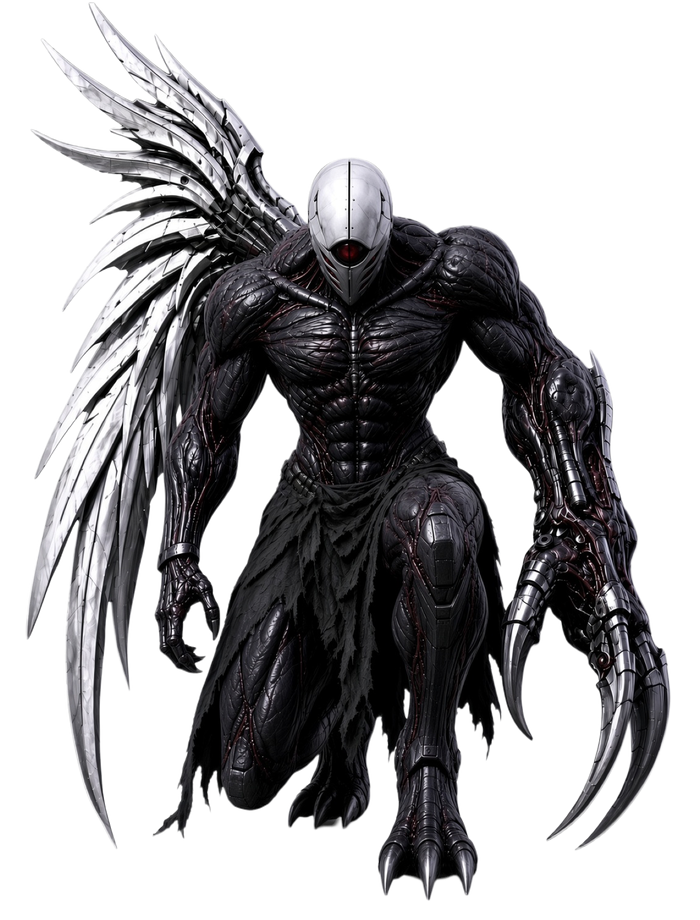
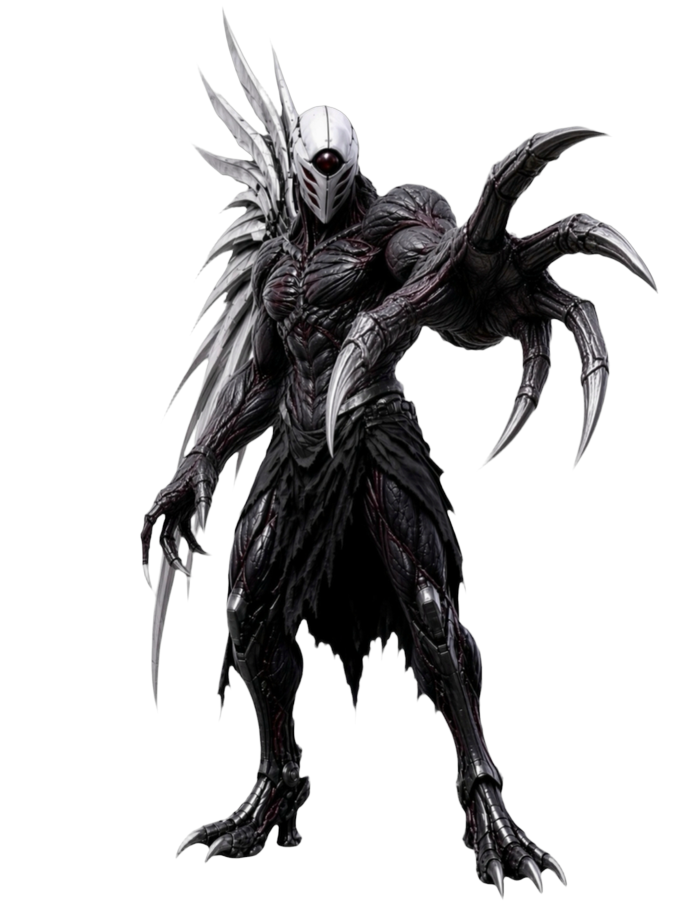
Restore image-based ARC CLAW SLASH, fix SOUTH ATTACK asset, name boss GABRIEL
- ARC CLAW SLASH: the supplied claw image is the attack body again (was
  swapped for a Canvas-VFX-only crescent last batch); position still
  sweeps a quadratic-Bezier arc with continuous tangent-aligned rotation
  and 2-4 frame afterimages, but now drawing the real claw art instead of
  a procedural shape. The crescent is kept, demoted to a faint auxiliary
  trail mark drawn underneath the claw image. Motion/hit mechanics
  (total rotation ~90-160deg, CW/CCW variants, damage+knockback along the
  live tangent, DASH invulnerability, single-hit guard) are unchanged.
- SOUTH ATTACK: replaced attack_south_release.png with a new dedicated
  photograph (previously it shared its source image with cinematic_pose.png,
  which is why the two looked like "the same picture" — not an asset
  mis-reference in code, just a content choice from last batch). Built
  via body-landmark scaling onto the shared boss canvas; SOUTH_ATTACK_SCALE
  is its own independent constant (not shared with CINEMATIC_SCALE), tuned
  via screenshot comparison so SOUTH ATTACK reads the same size as SOUTH
  IDLE/WALK instead of oversized. cinematic_pose.png is untouched.
- Boss is now named GABRIEL (boss.name field); the WARNING banner reads
  "GABRIEL DETECTED". HP gauge stays hidden.

diff --git a/game.js b/game.js
@@ -181,14 +181,31 @@
   const BARREL_HITBOX_RADIUS = 12; // scaled down to match the smaller draw size
   const BARREL_EXPLOSION_RADIUS = 300; // area-effect range, not tied to the sprite size (3x the previous 100)
 
-  // ---------- ARC CLAW SLASH (boss ranged attack, Canvas VFX — no image) ----------
-  // Deliberately no image asset at all: a thin silver-to-white crescent
-  // slash-mark, drawn as a filled canvas path (two bowed quadratic curves
-  // meeting at sharp points) rather than any sprite — a hard metal claw
-  // cutting through the air, never a glowing magic beam. See
-  // drawArcClawPose() for the actual shape.
-  const ARC_CLAW_DRAW_LENGTH = 70; // on-screen tip-to-tail length, px — ~60% of SPRITE_DRAW_H(116), within the 45-65% band
-  const ARC_CLAW_CRESCENT_BOW = 15; // px, how far the crescent bows away from its own straight long axis
+  // ---------- ARC CLAW SLASH (boss melee-range attack) ----------
+  // The claw IMAGE is the attack's actual body (real supplied art, no
+  // generated/inpainted content) — it travels along a curved Bezier path
+  // with its own rotation continuously re-aligned to the live tangent
+  // direction (see updateArcClawSlashes()/ARC_CLAW_BASE_TIP_ANGLE below).
+  // The thin silver-to-white crescent shape from the earlier Canvas-VFX-only
+  // version is kept too, but only as a faint auxiliary slash-trail mark
+  // behind the claw image — see drawArcClawImage() (main body) vs
+  // drawArcClawCrescentTrail() (auxiliary) in drawArcClawSlash().
+  const arcClawImg = new Image();
+  let arcClawImgReady = false;
+  arcClawImg.onload = () => { arcClawImgReady = true; };
+  arcClawImg.src = 'assets/boss/attacks/arc_claw_slash.png';
+  // Tip<->base axis of the cropped claw art, measured via PCA of its own
+  // opaque-pixel mask (long axis of the elongated claw+speed-line
+  // silhouette) — see assets/boss/source/MANIFEST.md batch 7 notes. Used so
+  // the sprite's own "pointing" direction lines up with the live tangent
+  // angle rather than just spinning in place.
+  const ARC_CLAW_BASE_TIP_ANGLE = 2.3594412320307216; // ~135.19deg, unmirrored
+  const ARC_CLAW_BASE_TIP_ANGLE_FLIPPED = Math.PI - ARC_CLAW_BASE_TIP_ANGLE; // ~44.81deg, mirrored
+  const ARC_CLAW_TIP_LOCAL = { x: 3, y: 1251 }; // tip pixel, cropped-image space
+  const ARC_CLAW_IMG_DIAG = 1742.6; // measured tip<->base pixel distance in the cropped source art
+  const ARC_CLAW_DRAW_LENGTH = 72; // on-screen tip-to-base length, px — ~62% of SPRITE_DRAW_H(116), within the 45-65% band
+  const ARC_CLAW_DRAW_SCALE = ARC_CLAW_DRAW_LENGTH / ARC_CLAW_IMG_DIAG;
+  const ARC_CLAW_CRESCENT_BOW = 15; // px, how far the auxiliary crescent trail bows away from its own straight axis
   const ARC_CLAW_LIFETIME_MS = 650; // start -> full wind-through -> finish
   const ARC_CLAW_TRAIL_LEN = 4; // afterimage frames kept
   // Start/end angular deviation from the straight boss->player line, each
@@ -489,17 +506,20 @@
   const WALK_FRAME_PERIOD_MS = 260; // south 2-frame alternation period
   const NORTH_BOUNCE_AMPLITUDE = 4; // px, decorative only (no NORTH walk art)
   const SOUTH_WALK_SCALE = 1.10; // visual-only — SOUTH WALK reads a touch small next to the other directions
-  const PRE_ATTACK_SCALE = 1.13; // visual-only — the reused older attack art reads a touch small for its telegraph
+  const PRE_ATTACK_SCALE = 1.10; // visual-only — matches SOUTH_ATTACK_SCALE so the telegraph reads the same size as the real release
   const NORTH_IDLE_SCALE = 1.10; // visual-only — NORTH IDLE reads a touch small next to the other directions
   const NORTH_ATTACK_SCALE = 1.10; // visual-only — matched to NORTH IDLE so the two read as the same size
-  // The new SOUTH ATTACK render's own body-height (measured head-top to
-  // feet-bottom, not raw canvas bbox — its wingspan is wide enough that
-  // fitting it on the shared 700x920 canvas without any clipping requires
-  // a smaller base scale than the ~873px convention every other frame
-  // uses) is boosted back up at render time, bottom-anchored exactly like
-  // the scales above, so it reads the same body size as every other
-  // direction instead of looking smaller mid-fight.
-  const SOUTH_ATTACK_SCALE = 1.1766;
+  // SOUTH ATTACK's own render-time scale — deliberately independent from
+  // CINEMATIC_SCALE (a completely different image/role; never share this
+  // constant with the cinematic pose). The source render's own body-height
+  // (measured head-top to feet-bottom, not raw canvas bbox — its wingspan/
+  // raised arm are wide enough that fitting it on the shared 700x920 canvas
+  // without any clipping already lands close to the other directions' own
+  // effective size) only needs a small boost here, tuned via Playwright
+  // screenshot comparison against SOUTH IDLE/WALK/CINEMATIC so SOUTH ATTACK
+  // reads as the SAME size as SOUTH IDLE/WALK — not larger — per the
+  // "fit the smaller side, don't enlarge everything else" instruction.
+  const SOUTH_ATTACK_SCALE = 1.10;
   // SOUTH/EAST/WEST attacks telegraph with a PRE_ATTACK pose before the
   // real ATTACK (blade release) frame; NORTH skips straight to ATTACK
   // (no dedicated PRE_ATTACK art for it) — see updateBoss()'s CHASE
@@ -587,6 +607,7 @@
   const OPPOSITE_COMPASS = { north: 'south', south: 'north', east: 'west', west: 'east' };
 
   const boss = {
+    name: 'GABRIEL', // official display name — internal field so every player-visible label (WARNING banner, debug/aria text) reads from one source
     x: 0, y: 0,
     spawned: false,
     state: 'inactive', // inactive | chase | preattack | attack | defense | guardbreak | recover | dead
@@ -1338,14 +1359,19 @@
       const pos = quadBezierPoint(s.p0, s.p1, s.p2, t);
       const tangentAngle = quadBezierTangentAngle(s.p0, s.p1, s.p2, t);
 
-      s.trail.push({ x: s.x, y: s.y, angle: s.angle });
+      // Each stored sample keeps its OWN position/rotation from when it was
+      // the live frame — angle for the claw image's draw rotation, and the
+      // raw tangentAngle too (the auxiliary crescent trail aligns to the
+      // pure travel direction, not the image's own tip-offset rotation).
+      s.trail.push({ x: s.x, y: s.y, angle: s.angle, tangentAngle: s.tangentAngle });
       if (s.trail.length > ARC_CLAW_TRAIL_LEN) s.trail.shift();
 
       s.x = pos.x; s.y = pos.y; s.tangentAngle = tangentAngle;
-      // The crescent is drawn procedurally (see drawArcClawPose()), so its
-      // rotation is simply the live travel direction — no image-orientation
-      // correction is needed here.
-      s.angle = tangentAngle;
+      // Re-align the claw image's own tip<->base axis to the live tangent
+      // direction, so it visibly points where it's travelling rather than
+      // just spinning around its own center.
+      const baseTip = s.mirrored ? ARC_CLAW_BASE_TIP_ANGLE_FLIPPED : ARC_CLAW_BASE_TIP_ANGLE;
+      s.angle = tangentAngle - baseTip;
 
       if (!s.hasHit && !isPlayerInvulnerable()) {
         // Oriented rectangle aligned to the live travel direction (never a
@@ -1366,20 +1392,35 @@
     }
   }
 
-  // A thin crescent slash-mark: two bowed quadratic curves meeting at sharp
-  // points at the tip (forward, local +X) and tail (backward, local -X) —
-  // bowed to one side (mirrored flips which side, matching the CW/CCW
-  // swing direction) so it reads as a real curved blade-cut, not a
-  // symmetric lens/eye shape. Silver-to-white gradient along its length
-  // (bright leading tip, dimmer trailing tail) — no glow/shadowBlur, no
-  // flashy color, just a hard metallic edge.
-  function drawArcClawPose(x, y, angle, mirrored, alpha) {
+  // The attack's actual body: the supplied claw image, rotated so its own
+  // tip<->base axis lines up with `angle` (already tangent-corrected by the
+  // caller — see ARC_CLAW_BASE_TIP_ANGLE in updateArcClawSlashes()).
+  function drawArcClawImage(x, y, angle, mirrored, alpha) {
+    if (!arcClawImgReady) return;
+    const drawW = arcClawImg.naturalWidth * ARC_CLAW_DRAW_SCALE;
+    const drawH = arcClawImg.naturalHeight * ARC_CLAW_DRAW_SCALE;
+    ctx.save();
+    ctx.globalAlpha = alpha;
+    ctx.translate(x, y);
+    ctx.rotate(angle);
+    if (mirrored) ctx.scale(-1, 1);
+    ctx.drawImage(arcClawImg, -ARC_CLAW_TIP_LOCAL.x * ARC_CLAW_DRAW_SCALE, -ARC_CLAW_TIP_LOCAL.y * ARC_CLAW_DRAW_SCALE, drawW, drawH);
+    ctx.restore();
+  }
+
+  // Auxiliary slash-trail mark only (NOT the attack body) — a thin bowed
+  // crescent, aligned to the pure travel direction (`tangentAngle`, not the
+  // image's own rotation), left fading behind the real claw image. Two
+  // bowed quadratic curves meeting at sharp points at the tip (forward,
+  // local +X) and tail (backward, local -X); mirrored flips which side it
+  // bows toward, matching the CW/CCW swing direction.
+  function drawArcClawCrescentTrail(x, y, tangentAngle, mirrored, alpha) {
     const half = ARC_CLAW_DRAW_LENGTH / 2;
     const bow = mirrored ? -ARC_CLAW_CRESCENT_BOW : ARC_CLAW_CRESCENT_BOW;
     ctx.save();
     ctx.globalAlpha = alpha;
     ctx.translate(x, y);
-    ctx.rotate(angle);
+    ctx.rotate(tangentAngle);
     const grad = ctx.createLinearGradient(-half, 0, half, 0);
     grad.addColorStop(0, 'rgba(150,155,165,0.15)');
     grad.addColorStop(0.55, 'rgba(215,220,228,0.75)');
@@ -1413,13 +1454,17 @@
     }
     // Afterimages: each keeps ITS OWN position/rotation from when it was
     // the live frame, so the stack of afterimages itself traces the arc —
-    // not the current pose copy-pasted backward.
+    // not the current pose copy-pasted backward. The faint crescent draws
+    // first (auxiliary trail mark), the claw image draws on top of it
+    // (the real attack body).
     const n = s.trail.length;
     for (let i = 0; i < n; i++) {
       const sample = s.trail[i];
-      drawArcClawPose(sample.x, sample.y, sample.angle, s.mirrored, 0.10 + 0.16 * (i / Math.max(1, n)));
+      const a = i / Math.max(1, n);
+      drawArcClawCrescentTrail(sample.x, sample.y, sample.tangentAngle, s.mirrored, 0.08 + 0.10 * a);
+      drawArcClawImage(sample.x, sample.y, sample.angle, s.mirrored, 0.18 + 0.24 * a);
     }
-    drawArcClawPose(s.x, s.y, s.angle, s.mirrored, 1);
+    drawArcClawImage(s.x, s.y, s.angle, s.mirrored, 1);
   }
 
   // ---------- Game mode / PAUSE ----------
@@ -3050,7 +3095,7 @@
       ctx.font = 'bold 20px sans-serif';
       ctx.fillText('WARNING', W / 2, barY + 44);
       ctx.font = 'bold 14px sans-serif';
-      ctx.fillText('BOSS DETECTED', W / 2, barY + 64);
+      ctx.fillText(`${boss.name} DETECTED`, W / 2, barY + 64);
       ctx.restore();
     }
   }

diff --git a/assets/boss/source/MANIFEST.md b/assets/boss/source/MANIFEST.md
@@ -1,14 +1,16 @@
-# Boss character asset manifest — all 21 source images (batch 1 + batch 2 + batch 3 + batch 4 + batch 5 + batch 6 + batch 7 + batch 8)
+# Boss character asset manifest — all 22 source images (batch 1 + batch 2 + batch 3 + batch 4 + batch 5 + batch 6 + batch 7 + batch 8 + batch 9)
 
-All 20 files below are byte-identical copies of the originally attached
+All 22 files below are byte-identical copies of the originally attached
 images (verified by md5) — no crop/resize/flip/regeneration applied to
 these `source/` copies. The processed, game-ready frames built from them
 live in `assets/boss/*.png` (see `assets/boss/sprite_build_meta.json` for
 batches 1-2's exact per-frame alignment measurements,
 `assets/boss/defense_dirs_build_meta.json` for batch 3's,
 `assets/boss/attack_ns_build_meta.json` for batch 5's,
-`assets/boss/attack_release_build_meta.json` for batch 6's, and the
-ARC CLAW SLASH notes below for batch 7's).
+`assets/boss/attack_release_build_meta.json` for batch 6's,
+`assets/boss/attack_south_v2_build_meta.json` for batch 8's (now
+superseded — see batch 9), `assets/boss/attack_south_release_build_meta.json`
+for batch 9's, and the ARC CLAW SLASH notes below for batch 7's).
 
 ## Batch 1 (5 images)
 
@@ -185,6 +187,13 @@ Batch 7 notes:
   ~135.19deg at zero canvas rotation, ~44.81deg after a horizontal mirror
   (used for the slash's counter-clockwise variant, since only one hand
   orientation exists in the source art).
+- Status: ACTIVE (this image IS the ARC CLAW SLASH attack body). Batch 8
+  temporarily switched the attack's rendering to a procedural Canvas-VFX-only
+  crescent and stopped referencing this file; batch 9 restored the
+  image-based rendering (per explicit user instruction that the claw image
+  itself must be the attack's real body, with the crescent kept only as an
+  auxiliary trail effect) using this exact same already-cropped file and the
+  PCA orientation constants above, unchanged. See batch 9 notes below.
 
 ## Batch 8 (1 image, reused for two roles)
 
@@ -198,21 +207,28 @@ Batch 8 notes:
   CINEMATIC POSE. Both game-ready outputs below are built from the same
   byte-identical source (verified by md5); the source copy is kept once, in
   `attack_south_v2_source.png`, rather than duplicated under two filenames.
-- **SOUTH ATTACK v2** → `assets/boss/attack_south_release.png` (replaces the
-  batch-6 SOUTH release art; the old batch-6 SOUTH release file is no longer
-  used in-game for either ATTACK or PRE_ATTACK — see below). Built onto the
+- **SOUTH ATTACK v2** → `assets/boss/attack_south_release.png` (replaced the
+  batch-6 SOUTH release art at the time). Built onto the
   shared 700x920 boss canvas, anchored at (350,900), scale 0.55, paste
   offset (25,2) — measured from body landmarks (head-top y=284, feet-bottom
   y=1633, center_x=592 on the 1176x1636 source), not raw bbox height, since
   the fully-spread wingtips inflate the raw bbox well past the actual body
   extent. Fitting the complete image with zero clipping at this scale
   produces a body height on canvas of ~742px, a bit under the shared 873px
-  convention; `SOUTH_ATTACK_SCALE = 1.1766` in `game.js` applies the same
+  convention; `SOUTH_ATTACK_SCALE = 1.1766` in `game.js` applied the same
   bottom-anchored render-time multiplier pattern already used by
   `SOUTH_WALK_SCALE`/`PRE_ATTACK_SCALE`/`NORTH_IDLE_SCALE` to restore the
   on-screen body size to match every other direction, with no jump when
   entering/leaving ATTACK. Full measurements in
   `assets/boss/attack_south_v2_build_meta.json`.
+  **Status: SUPERSEDED.** This same photograph is also what
+  `cinematic_pose.png` uses (see below), so SOUTH ATTACK and the CINEMATIC
+  POSE ended up visually reading as "the same picture" — the user flagged
+  this as SOUTH ATTACK appearing to show the CINEMATIC image. Batch 9
+  replaced `attack_south_release.png` with a genuinely different supplied
+  photograph dedicated to SOUTH ATTACK only; this batch-8 build is left on
+  disk (build meta + this note) purely as history, not deleted, per this
+  project's asset-retirement convention. See batch 9 below.
 - SOUTH's PRE_ATTACK phase was removed entirely per this batch's spec (SOUTH
   is now the only direction that still telegraphs, and it does so by
   reusing this same new release-moment image at its own scale/timing rather
@@ -232,14 +248,66 @@ Batch 8 notes:
   scale is used uniformly for every cinematic event (first appearance,
   30/60/90% HP thresholds, and death) — there was never any per-event
   scale variation in the code to begin with.
-- **Retired (image no longer used in-game): `assets/boss/attacks/
-  arc_claw_slash.png`** (batch 7) and its source copy. ARC CLAW SLASH's
-  rendering was reworked from an image sprite to a procedural Canvas VFX
-  crescent (two mirrored quadratic Bézier curves with a silver-to-white
+- **Retired at the time (later reinstated — see batch 9): `assets/boss/
+  attacks/arc_claw_slash.png`** (batch 7) and its source copy. ARC CLAW
+  SLASH's rendering was reworked from an image sprite to a procedural Canvas
+  VFX crescent (two mirrored quadratic Bézier curves with a silver-to-white
   gradient fill) per this batch's explicit "no new image generation — use
-  Canvas VFX" instruction. The files are left on disk (not deleted) per
-  this project's asset-retirement convention; only `game.js`'s rendering
-  code stopped referencing them.
+  Canvas VFX" instruction. The files were left on disk (not deleted) per
+  this project's asset-retirement convention, which is exactly why batch 9
+  could bring them straight back into active use with no reprocessing.
+
+## Batch 9 (1 image)
+
+| # | Role | Saved filename | Source dims | md5 |
+|---|------|-----------------|-------------|-----|
+| 22 | SOUTH ATTACK v3 (final) | `attack_south_release_source.png` | 1377x2378 RGBA | 7a8fee2727bbc6a0155cba2b055ccfca |
+
+Batch 9 notes:
+- Two images were attached this batch: the 1st (md5
+  `3d0102334214be0b98b7f830e9903f92`) is byte-identical to the EXISTING
+  batch-7 `arc_claw_slash_source.png` — i.e. the same claw art already on
+  disk, re-supplied to confirm/re-authorize its use as the ARC CLAW SLASH
+  attack body (see batch 7's "Status: ACTIVE" note above; no new file was
+  saved for it, no reprocessing needed). The 2nd (this row) is a genuinely
+  new photograph, used exclusively for SOUTH ATTACK.
+- **Root cause of the "SOUTH ATTACK shows the CINEMATIC POSE image" report:**
+  not a code-level asset mix-up — `attack_south_release.png` and
+  `cinematic_pose.png` were always two separate files loaded through two
+  separate `Image` objects/keys (`BOSS_FRAME_FILES.attack_south_release` vs
+  `cinematicPoseImg.src`), never cross-referenced anywhere in `game.js`.
+  The actual cause was a content choice in the previous batch: both roles
+  were built from the SAME single attached photograph (batch 8's
+  `attack_south_v2_source.png`, reused for both per that batch's own explicit
+  instruction), so the two frames depicted visually near-identical artwork —
+  reasonably read by the user as "the same picture showing up in both
+  places." This batch fixes it at the content level: SOUTH ATTACK now uses
+  its own dedicated photograph (this row), while `cinematic_pose.png` keeps
+  the batch-8 image untouched, unmodified, and exclusively for the
+  intro/milestone/death cinematic roles.
+- Real per-pixel alpha, opaque bbox spans nearly the entire 1377x2378 source
+  canvas (x:1-1373, y:5-2374). Body landmarks measured directly off the
+  alpha channel (head band restricted to x:430-640 to exclude the raised
+  claw arm and the wings): head_top_y=268, feet_bottom_y=2374 (the lowest
+  opaque pixel overall, a foot claw tip), center_x≈557.7 (head/torso
+  centroid, x:430-640 band, y:268-450).
+- Built onto the same shared 700x920 boss canvas, anchor (350,900): unlike
+  earlier attack batches, the BINDING constraint here was canvas HEIGHT, not
+  width — this pose's full bbox (wingtip to lowest claw, 2369px tall in the
+  source) is proportionally taller relative to its own body than earlier
+  renders, so fitting it with zero clipping required scale=0.378 rather than
+  a width-limited scale. paste_xy=(139,3). Resulting landmark (head-to-feet)
+  body height on canvas: ~796px — already close to SOUTH_WALK's own
+  effective on-screen size, which is why `SOUTH_ATTACK_SCALE` only needed a
+  modest independent value (1.10, matching `SOUTH_WALK_SCALE`, and NOT
+  shared with `CINEMATIC_SCALE`) to read as the same size as SOUTH IDLE/WALK
+  rather than the older ~873px attack-frame convention (confirmed via
+  Playwright screenshot: SOUTH IDLE / SOUTH WALK / SOUTH ATTACK / CINEMATIC
+  all crop to essentially the same on-screen footprint at the same anchor
+  point, with SOUTH ATTACK reading neither oversized nor undersized).
+  `preattack_south` (SOUTH's own telegraph pose) reuses this same file with
+  its own `PRE_ATTACK_SCALE`, likewise retuned to 1.10 to match. Full
+  measurements in `assets/boss/attack_south_release_build_meta.json`.
 
 Notes:
 - Verified visually (not assumed) that EAST images face screen-right with
